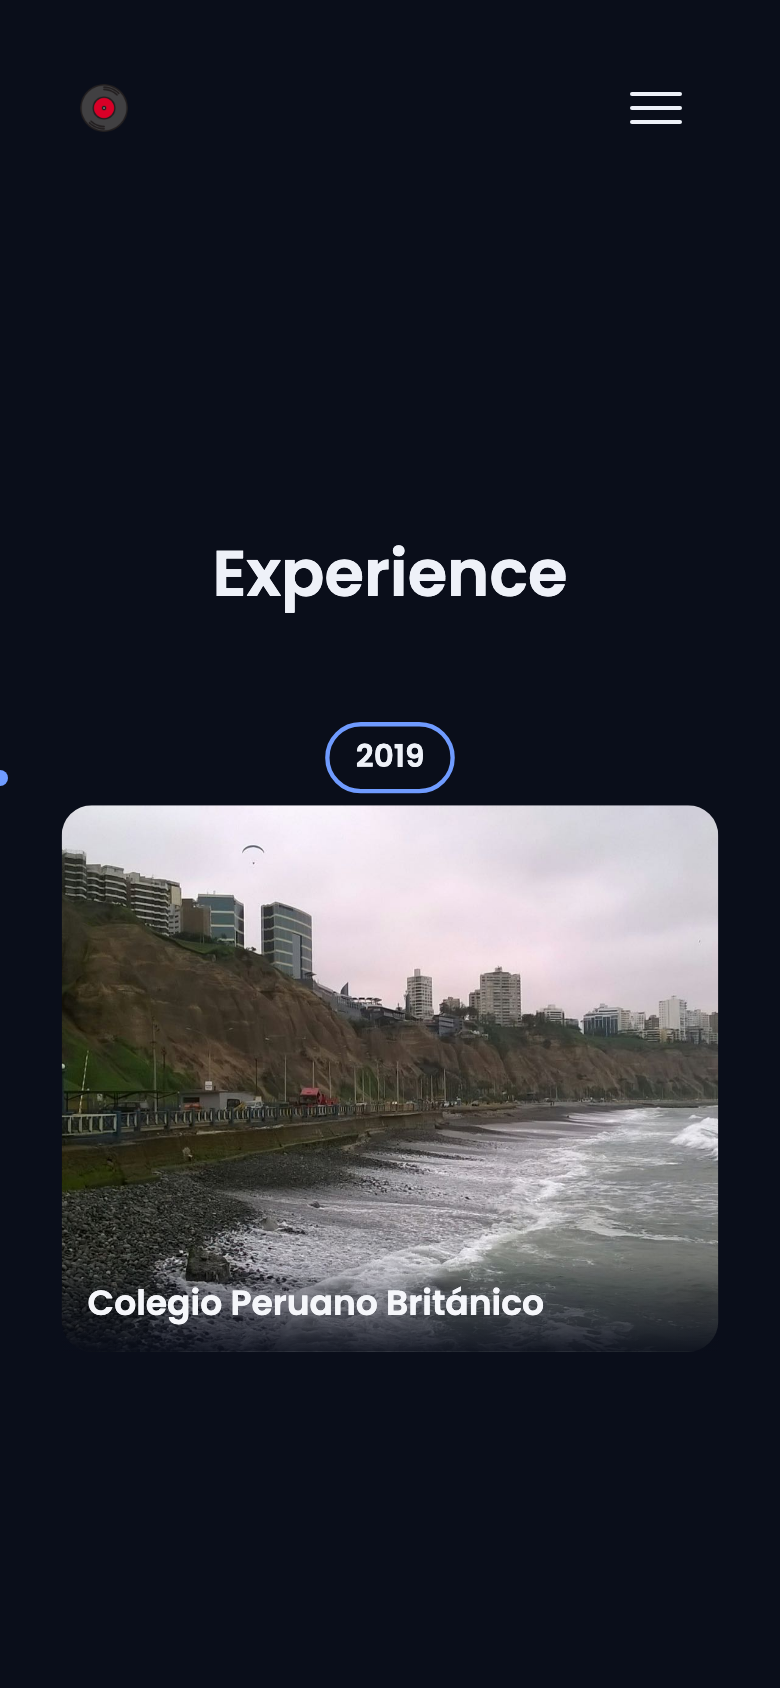
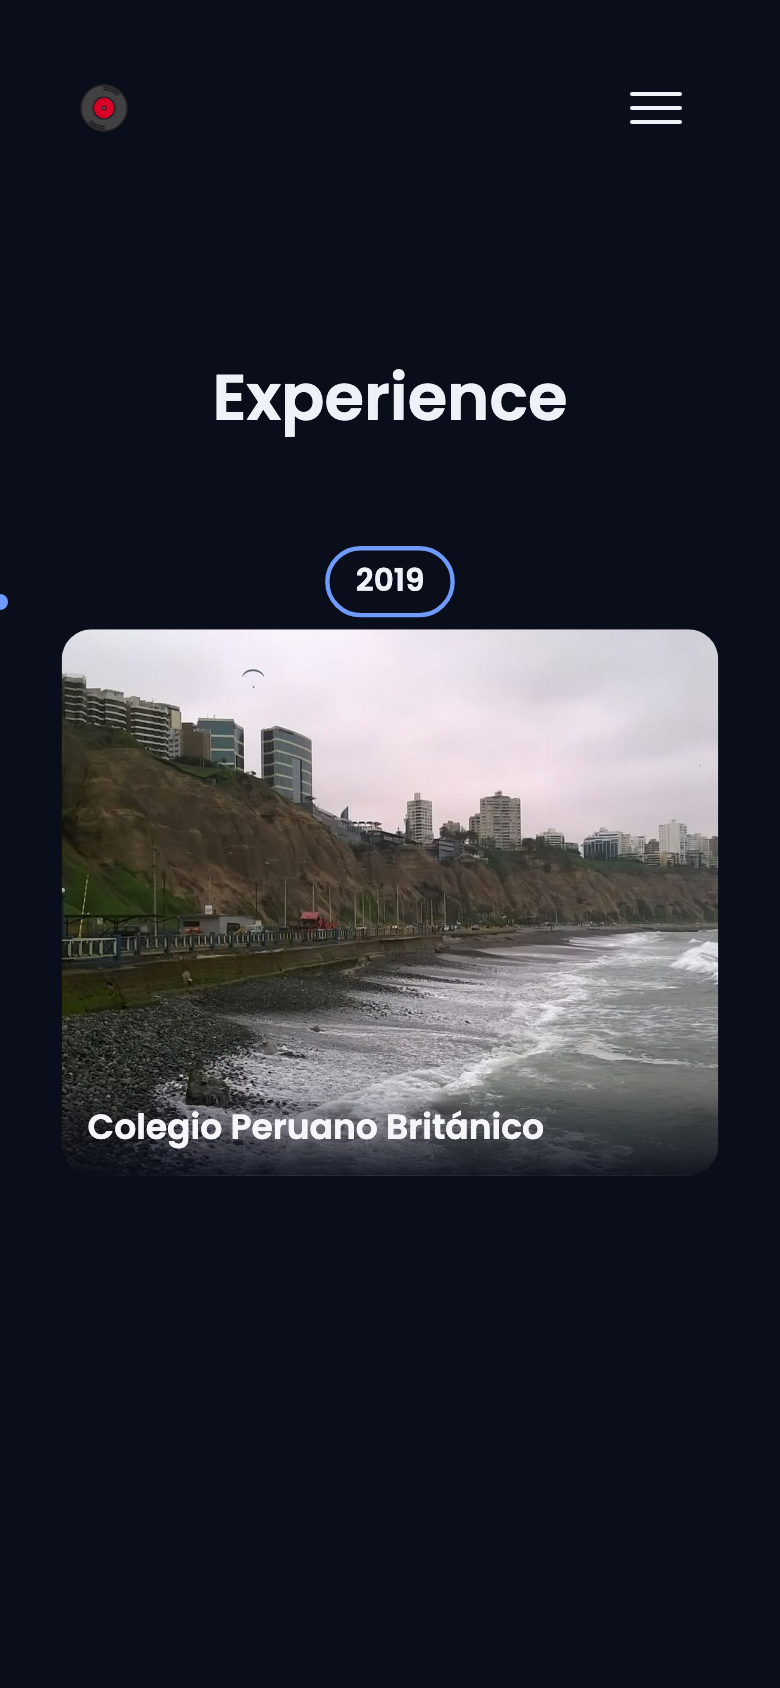
fix: top-align the Experience title + filmstrip
Follow-up to 6aea43d ("cards way higher, title almost at the top").
Centered — even with the upward bias — still read as too low: a
full-height section centered under the 144px fixed navbar can't put the
filmstrip near the screen's optical middle without the title colliding
with the navbar.

So the pair is top-aligned now: `justify-content: flex-start`, top
padding cut to `--space-4` (the section already sits 24px below the
navbar via `--scroll-offset`), the `::before`/`::after` spacer
pseudo-elements deleted, and the now-redundant `.experience-section--static`
rule removed (the base is top-aligned, which is what the reduced-motion
list wanted anyway).

nav-bottom -> title gap: 73px desktop / 31px mobile (was 116 / ~190).
Card center vs. screen center: +82px @1440, +36px @1920, +5px @390
(was +125 / +110 / +79). Leftover height pools below the filmstrip.
1280x720 still clears the fold; reduced-motion list re-verified unclipped.

Screenshots refreshed; STATUS/ROADMAP/FINDINGS updated.

diff --git a/client/src/styles/main.scss b/client/src/styles/main.scss
@@ -2079,22 +2079,22 @@ html {
 // every prior build of this section. --panel-text/--panel-text-secondary
 // stay in real use for .experience-info and .experience-client-badge — both
 // sit on a photo/motif scrim regardless of site theme.
-// VERTICAL LAYOUT (live feedback 2026-09-01: "center the slide cards in the
-// middle, title on top"). The title sits directly above the filmstrip with
-// ONE fixed gap — section-title's own margin-bottom — and the whole
-// [title + viewport] pair is centered in the section as a unit
-// (justify-content: center). The previous design pinned the title near the
-// section top and centered ONLY the viewport in the room left below it; on
-// tall screens that stranded the title 90-120px above the cards, reading as
-// a floating label rather than the filmstrip's heading. Centering the pair
-// keeps them together at every height — the leftover vertical space now
-// collects above the title and below the viewport, never between them.
+// VERTICAL LAYOUT. Title sits near the TOP of the section, filmstrip directly
+// under it, all the leftover height falls to the bottom — `justify-content:
+// flex-start` with a small top padding. This is the third arrangement the
+// live feedback walked through: (1) title floating ~90-120px above a centred
+// viewport ["center the cards, title on top"]; (2) title + viewport centred
+// together as one pair; (3) a small upward bias on that pair ["a bit
+// higher"]. (2) and (3) both still read as "the slideshow is too low" —
+// "cards way higher, title almost at the top." A full-height section centred
+// under a 144px fixed navbar can't put the filmstrip near the optical middle
+// of the SCREEN without the title colliding with the navbar, so the pair is
+// pinned to the top instead and the empty space goes below it.
 //
-// The rejected alternative this replaces (documented at length in a prior
-// version of the shell comment below): a flex: 1 1 auto "shell" with
-// ::before/::after flex-grow spacers, centering the viewport in its OWN
-// leftover only. It was chosen precisely to keep the title's height out of
-// the centering math — but that is the thing that made the title float.
+// section-title's own margin-bottom is the single gap between title and
+// filmstrip. No pseudo-element spacers anymore (an earlier version biased the
+// centred pair with `::before`/`::after` flex-grow; a top-aligned layout has
+// nothing to bias).
 //
 // min-height: one navbar-cleared screen — the same 100(d)vh - scroll-offset
 // this section has always reserved, so it still reads as exactly one screen
@@ -2109,58 +2109,28 @@ html {
 // rendered box overflows the fold by exactly its vertical padding — measured
 // once at 820px against a 756px min-height.
 //
-// The pair is biased UPWARD, not dead-centred — two flex-grow spacer
-// pseudo-elements below, `::after` heavier than `::before`, so more of the
-// section's leftover height collects below the filmstrip than above the
-// title. Live feedback ("move the slideshow a bit higher"), and the same
-// thing about.jsx's TOP_BIAS records: mathematical centring under a fixed
-// navbar reads low, because the navbar anchors the eye to the top, and this
-// pair carries its title on top so the filmstrip already sits in the pair's
-// lower half. flex-grow, NOT extra bottom padding: on a short window the
-// leftover height is ~0, both spacers collapse to 0px regardless of ratio,
-// and the pair falls back to plain `justify-content: center` in whatever
-// space exists — so this can't push the section past a tight (~720px) fold
-// or reintroduce B29's title/card overlap the way a fixed offset could.
-//
-// NOT transform: translateY(-50%) centering — experience.jsx runs
-// gsap.set/to with `scale` on .experience-viewport (mount reveal) and GSAP
-// writes its own inline `transform`, which would clobber a stylesheet one.
-// Flex centering never touches `transform`. B29 (FINDINGS.md — the title
-// overlapping the cards) stays fixed: the pair is one unit, so the title
-// can never land over the viewport.
+// NOT transform-based positioning — experience.jsx runs gsap.set/to with
+// `scale` on .experience-viewport (mount reveal) and GSAP writes its own
+// inline `transform`, which would clobber a stylesheet one. Flex layout never
+// touches `transform`. B29 (FINDINGS.md — the title overlapping the cards)
+// stays fixed: the title is always the first flow child, above the viewport,
+// with a real margin between them — it can't land on top of it.
 .experience-section {
   position: relative;
   display: flex;
   flex-direction: column;
-  justify-content: center;
+  justify-content: flex-start;
   box-sizing: border-box;
   min-height: calc(100vh - var(--scroll-offset));
   min-height: calc(100dvh - var(--scroll-offset));
-  padding: var(--space-5) 0 var(--space-6);
+  // Top padding is small on purpose ("title almost at the top") — the section
+  // already sits 24px below the navbar via --scroll-offset, so this is the
+  // whole remaining gap. Bottom padding is nominal; flex-start means the
+  // leftover height pools below the filmstrip regardless of its value.
+  padding: var(--space-4) 0 var(--space-6);
 
   @media (max-width: 768px) {
     padding: var(--space-4) 0 var(--space-5);
-  }
-
-  // Desktop 1 : 2 — the space below the pair grows twice as fast as the space
-  // above it, so the pair lands ~1/6 of the leftover height above true centre
-  // (a clear, deliberate lift, per "move the slideshow a bit higher").
-  &::before,
-  &::after {
-    content: "";
-    flex-shrink: 1;
-    width: 100%;
-  }
-
-  &::before { flex-grow: 1; }
-  &::after { flex-grow: 2; }
-
-  // A tall narrow phone has ~1.6x the leftover height a desktop does, so the
-  // same ratio shifts the pair much further in absolute px and leaves an
-  // obvious empty band under the filmstrip. Flatten the ratio here so the
-  // lift stays "a bit," not "halfway up."
-  @media (max-width: 768px) {
-    &::after { flex-grow: 1.5; }
   }
 }
 
@@ -2168,10 +2138,8 @@ html {
   @include section-title;
   @include content-column($width: var(--content-width-wide));
   color: var(--text-color);
-  // section-title's own margin-bottom is now the ENTIRE gap between the
-  // title and the filmstrip — no pseudo-element spacers between the two.
-  // flex-shrink: 0 so a short window eats into the padding above/below the
-  // centered pair rather than crushing the title.
+  // section-title's own margin-bottom is the ENTIRE gap between the title and
+  // the filmstrip. flex-shrink: 0 so a short window can't crush it.
   flex-shrink: 0;
 }
 
@@ -2192,17 +2160,9 @@ html {
   align-items: center;
 }
 
-// Reduced-motion fallback (ExperienceStatic, experience.jsx) is a tall
-// scrolling list, not a one-screen composition — centering or biasing it
-// would push its top under the navbar. Top-aligned, and no spacer
-// pseudo-elements (a `::before` with flex-grow would still claim space above
-// a short list on a tall window).
-.experience-section--static {
-  justify-content: flex-start;
-
-  &::before,
-  &::after { content: none; }
-}
+// (.experience-section--static, the reduced-motion ExperienceStatic list,
+// needs no rule of its own now — the base section is top-aligned with no
+// spacers, which is exactly what a tall scrolling list wants.)
 
 // The pinned box — experience.jsx's ScrollTrigger pins THIS section
 // (.experience-section, the ref'd element), but this inner element is what
@@ -3144,7 +3104,22 @@ html {
     // above simply don't apply below 600px anymore (not redeclared to
     // "none" — grid-only properties are inert once display isn't grid).
     display: flex;
+    // Horizontal ONLY. `overflow-x: auto` alone is not enough: per the
+    // overflow spec, a `visible` value on the other axis computes to `auto`
+    // as soon as one axis is non-visible, so this box silently became
+    // vertically scrollable too. The wall cards carry rotate()/translate()
+    // jitter, and that transformed overflow gave it a real 6px scroll range
+    // (measured live at 599px) — enough that a vertical swipe grabbed the
+    // row instead of passing through to the page, which is exactly what
+    // "we can move it up and down" reported. Same pairing the Experience
+    // filmstrip already uses for the same reason (see
+    // .experience-filmstrip-viewport). The vertical padding below gives the
+    // jitter its 6px back as real box space, so `hidden` clips nothing.
     overflow-x: auto;
+    overflow-y: hidden;
+    // Don't chain a horizontal overscroll at the row ends into a page scroll
+    // or the browser's back-nav swipe.
+    overscroll-behavior-x: contain;
     scroll-snap-type: x mandatory;
     -webkit-overflow-scrolling: touch;
     // Same defensive min-width: 0 this section has needed at every other
@@ -3164,7 +3139,10 @@ html {
     // technique bit the project with before (CLAUDE.md, the fr-track
     // minmax(0) issue) — zero horizontal page overflow at 320–600px.
     margin: 0 calc(-1 * var(--space-5));
-    padding: 0 var(--space-5);
+    // Vertical padding is not decoration — it is the room the rotated/
+    // jittered cards overflow into, now that overflow-y is hidden. 8px
+    // against a measured 6px of transformed overflow.
+    padding: var(--space-2) var(--space-5);
   }
 }
 
@@ -3771,7 +3749,14 @@ html {
 
   @media (max-width: 600px) {
     display: flex;
+    // Horizontal only — same computed-`auto` trap as .my-taste-wall above.
+    // This row's cards are un-rotated so it measured 0px of vertical range
+    // today, but it is the identical mechanism one stray descendant margin
+    // away from the same bug, and the pair reads as one gesture to a
+    // visitor: both rows swipe sideways, neither drags vertically.
     overflow-x: auto;
+    overflow-y: hidden;
+    overscroll-behavior-x: contain;
     scroll-snap-type: x mandatory;
     -webkit-overflow-scrolling: touch;
     min-width: 0;

diff --git a/design-review/ROADMAP.md b/design-review/ROADMAP.md
@@ -29,20 +29,18 @@ and — within Stage 3 — the design system itself plus a full rebuild of
 `#about` (intro card + Experience). Experience alone went through three
 builds (Tasks 7, 8, 9) chasing "big photos" and "fits on screen" at once;
 Task 9's pinned horizontal filmstrip is what actually landed both. Also a
-site-wide scroll-feel tuning (Lenis `lerp`) outside any one section. Three more
-live-feedback passes landed on Experience since, outside the Stage 4 sequence
-below since they touch an already-"done" section: **B29** — the title
+site-wide scroll-feel tuning (Lenis `lerp`) outside any one section. Several
+more live-feedback passes landed on Experience since, outside the Stage 4
+sequence below since they touch an already-"done" section: **B29** — the title
 overlapping its cards on real (not exotic) short windowed-browser heights,
 fixed with a flex-centered spacer replacing a section-blind absolute-center
 calc (`STATUS.md`/`FINDINGS.md` B29); then (2026-08-17) — "move it a bit
 higher, title and slideshow," a trimmed top padding plus an asymmetric
-flex-grow split replacing 50/50 centering, reusing `about.jsx`'s own
-`TOP_BIAS` reasoning; then, **most recently (2026-09-01)** — "center the slide
-cards in the middle, title on top," which retired the spacer shell for
-`justify-content: center` on the section so the title+filmstrip centre as one
-unit (the spacer only ever centred the viewport, leaving the title floating
-90–120px above it on tall screens). §3's Stage 3 Task 9 blockquote below has
-the full writeup for all three.
+flex-grow split; then, **on 2026-09-01**, three passes in one session that
+walked the title/filmstrip vertical layout from "centre the pair as one unit"
+→ "a bit higher" (flex-grow bias) → **top-aligned** (`justify-content:
+flex-start`, spacers gone), landing on "cards way higher, title almost at the
+top." §3's Stage 3 Task 9 blockquote below has the full writeup.
 
 Also removed entirely, same day, direct request over privacy — **the resume**:
 the nav link, the `#connect` link, and the PDF itself
@@ -1734,15 +1732,16 @@ Also here: migrate the About timeline's unthrottled scroll handler to `ScrollTri
 > (`section-title`'s own `margin-bottom`) between them. Title→card gap now
 > 44–50px at every size checked; the leftover space collects above the title
 > and below the viewport. `.experience-section--static` (reduced-motion) opts
-> back out with `justify-content: flex-start` (it's a tall scrolling list, not
-> a one-screen composition). Chosen by the user from a two-option mock
-> (the alternative: title pinned near the section top, viewport centred on its
-> own). A same-day follow-up ("move the slideshow a bit higher") then biased
-> the pair above true centre with two `flex-grow` spacer pseudo-elements on the
-> section, `::after` heavier than `::before` (1:2 desktop, 1:1.5 on mobile) —
-> `flex-grow` so they collapse to 0 on a short window and can't reintroduce the
-> overlap. All fixes' full writeups: `STATUS.md`'s own dated entries
-> (`FINDINGS.md` B29 for the first).
+> back out with `justify-content: flex-start`. Two more same-day follow-ups:
+> ("move the slideshow a bit higher") biased the centred pair up with
+> `flex-grow` spacer pseudo-elements; then ("cards way higher, title almost at
+> the top") **abandoned centring for a top-aligned layout** —
+> `justify-content: flex-start`, top padding trimmed to `--space-4`, spacers
+> and the `--static` rule deleted. A full-height section centred under a 144px
+> fixed navbar can't put the filmstrip near the screen's optical middle without
+> the title colliding with the navbar, so the pair is pinned to the top and the
+> leftover height pools below it. All fixes' full writeups: `STATUS.md`'s own
+> dated entries (`FINDINGS.md` B29 for the first).
 
 > **Stage 3 Task 10 is DONE — 2026-08-18.** `#projects` refined: B11 (a dead
 > slideshow-era rule sizing the list's title at 40px) and three orphaned

diff --git a/design-review/STATUS.md b/design-review/STATUS.md
@@ -7754,7 +7754,7 @@ for each. `npm run lint`: 7 errors / 2 warnings, unchanged, and clean on the
 changed file. (Note: `CLAUDE.md` still quotes a 16-error baseline; the actual
 current figure is 7/2.)
 
-### Experience — title now hugs the filmstrip; the pair centres as one unit *(2026-09-01)*
+### Experience — title hugs the filmstrip, then the pair moves to the top of the section *(2026-09-01)*
 
 Live ask: *"center the slide cards in the middle and the title on top."*
 Measured the current state before touching it (dark, nav-click to `#experience`,
@@ -7804,6 +7804,20 @@ now rides above true centre — card centre vs. section centre: 1920 +56→**+26
 plain `justify-content: center` — 1280×720 is unchanged (+56px, 34px overflow),
 no new B29 risk. `.experience-section--static` sets `content: none` on both so
 the reduced-motion list stays top-aligned. Screenshots refreshed.
+
+**Second follow-up same day — "cards way higher, title almost at the top."**
+Centred and lightly-biased both still read as "the slideshow is too low." A
+full-height section centred under the 144px fixed navbar structurally can't put
+the filmstrip near the optical middle of the *screen* without the title hitting
+the navbar. So the pair is now **top-aligned**: `justify-content: flex-start`,
+top padding cut to `--space-4` (the section already sits 24px below the navbar
+via `--scroll-offset`), spacer pseudo-elements deleted, and the now-redundant
+`.experience-section--static` rule removed (the base is top-aligned, which is
+what the reduced-motion list wanted anyway). Result — nav-bottom → title gap
+**73px desktop / 31px mobile** (was 116 / ~190); card centre vs. *screen* centre
+**+82px @1440, +36px @1920, +5px @390** (was +125 / +110 / +79). Leftover height
+(161–256px) now pools below the filmstrip. 1280×720 still fine (card bottom 19px
+off the fold). Only `main.scss`; reduced-motion list re-verified unclipped.
 
 ---
 

diff --git a/design-review/FINDINGS.md b/design-review/FINDINGS.md
@@ -1486,10 +1486,12 @@ identically before this fix — not something this touched). Screenshots:
 introduced was itself retired. It centred *only the viewport* in the room below
 the title, so on any screen taller than the content the title floated 87–122px
 above the cards (live feedback: "center the slide cards in the middle, title on
-top"). Replaced with `justify-content: center` on `.experience-section`, so the
-`[title + viewport]` pair centres as one unit — the title can no longer land
-over the viewport either (B29 stays fixed by construction), and the pair reads
-as one composition. Full writeup: `STATUS.md`, 2026-09-01 dated entry.
+top"). After three passes that session — centre the pair as one unit → bias it
+up → **top-align it** (`justify-content: flex-start`, small top padding, no
+spacers) — the title is now always the first flow child above the viewport with
+a real margin between them, so it structurally cannot overlap the cards. B29
+stays fixed regardless of which of those arrangements is live. Full writeup:
+`STATUS.md`, 2026-09-01 dated entry.
 
 ### B30 — `#my-taste`'s pin never engaged on a fresh page load — **FOUND AND FIXED**
 
